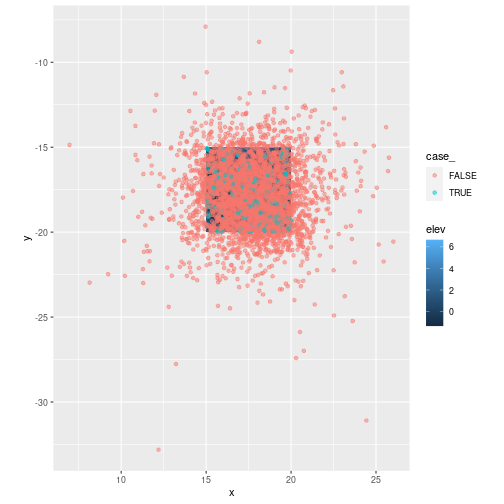
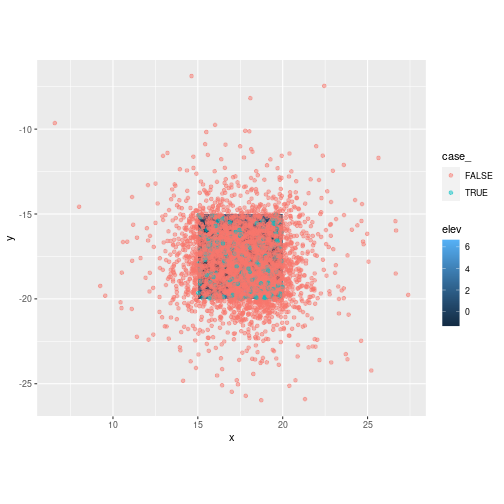
Made loading of rasters visible

diff --git a/index.html b/index.html
@@ -130,6 +130,10 @@ Let's simulate from this model...
 
 
 ```r
+# Load covariates
+elev &lt;- aggregate(raster("data/res01_srtm0_40_16.tif"), fact = 10)
+slp &lt;- aggregate(raster("data/res01_slope_40_16.tif"), fact = 10)
+
 # Coefficients for the IPP model
 # Our species likes heights a bit,
 # but doesn't like slopes
@@ -185,10 +189,10 @@ head(obs_loc, 4)
 
 ```
 ##          x         y
-## 1 18.79979 -17.18135
-## 2 19.06822 -17.02406
-## 3 19.31434 -18.36496
-## 4 15.57993 -18.90364
+## 1 16.48858 -17.90615
+## 2 18.26022 -19.66091
+## 3 16.86396 -17.35934
+## 4 17.42667 -18.83608
 ```
 
 ]
@@ -470,6 +474,8 @@ Now we also need to estimate the movement parameters: `\(k, \theta, \kappa, \mu\
 
 
 ```r
+library(amt)
+
 # Prepare data ------------------------------------------------------------
 
 # Read in simulations
@@ -600,11 +606,11 @@ head(step_rdm, 3)
 
 ```
 ## # A tibble: 3 × 12
-##   burst_   x1_   x2_   y1_   y2_    sl_   ta_ t1_                
-## *  &lt;dbl&gt; &lt;dbl&gt; &lt;dbl&gt; &lt;dbl&gt; &lt;dbl&gt;  &lt;dbl&gt; &lt;dbl&gt; &lt;dttm&gt;             
-## 1      3  17.2  16.2 -16.7 -16.6 0.998  NA    2022-08-31 20:03:30
-## 2      3  17.2  16.8 -16.7 -17.9 1.32    1.34 2022-08-31 20:03:30
-## 3      3  17.2  17.2 -16.7 -16.7 0.0221 -1.54 2022-08-31 20:03:30
+##   burst_   x1_   x2_   y1_   y2_   sl_    ta_ t1_                
+## *  &lt;dbl&gt; &lt;dbl&gt; &lt;dbl&gt; &lt;dbl&gt; &lt;dbl&gt; &lt;dbl&gt;  &lt;dbl&gt; &lt;dttm&gt;             
+## 1      3  17.2  16.2 -16.7 -16.6 0.998 NA     2022-08-31 20:03:30
+## 2      3  17.2  17.0 -16.7 -16.8 0.170  0.835 2022-08-31 20:03:30
+## 3      3  17.2  17.2 -16.7 -16.4 0.266 -1.56  2022-08-31 20:03:30
 ## # … with 4 more variables: t2_ &lt;dttm&gt;, dt_ &lt;drtn&gt;, step_id_ &lt;int&gt;, case_ &lt;lgl&gt;
 ## # ℹ Use `colnames()` to see all variable names
 ```
@@ -694,25 +700,25 @@ summary(ssm1)
 
 ```
 ## Call:
-## coxph(formula = Surv(rep(1, 2743L), case_) ~ elev + slp + strata(step_id_), 
+## coxph(formula = Surv(rep(1, 2720L), case_) ~ elev + slp + strata(step_id_), 
 ##     data = data, method = "exact")
 ## 
-##   n= 2743, number of events= 350 
+##   n= 2720, number of events= 350 
 ## 
-##         coef exp(coef) se(coef)      z Pr(&gt;|z|)    
-## elev  0.5140    1.6719   0.0847  6.068  1.3e-09 ***
-## slp  -1.7489    0.1740   0.2052 -8.521  &lt; 2e-16 ***
+##          coef exp(coef) se(coef)      z Pr(&gt;|z|)    
+## elev  0.54620   1.72667  0.08359  6.534  6.4e-11 ***
+## slp  -1.79925   0.16542  0.20526 -8.766  &lt; 2e-16 ***
 ## ---
 ## Signif. codes:  0 '***' 0.001 '**' 0.01 '*' 0.05 '.' 0.1 ' ' 1
 ## 
 ##      exp(coef) exp(-coef) lower .95 upper .95
-## elev     1.672     0.5981    1.4162    1.9738
-## slp      0.174     5.7482    0.1164    0.2601
+## elev    1.7267     0.5791    1.4657    2.0341
+## slp     0.1654     6.0451    0.1106    0.2474
 ## 
-## Concordance= 0.666  (se = 0.019 )
-## Likelihood ratio test= 118.9  on 2 df,   p=&lt;2e-16
-## Wald test            = 81.72  on 2 df,   p=&lt;2e-16
-## Score (logrank) test = 59.08  on 2 df,   p=1e-13
+## Concordance= 0.65  (se = 0.019 )
+## Likelihood ratio test= 128.5  on 2 df,   p=&lt;2e-16
+## Wald test            = 88.06  on 2 df,   p=&lt;2e-16
+## Score (logrank) test = 68.86  on 2 df,   p=1e-15
 ```
 
 ---
@@ -727,30 +733,30 @@ summary(ssm2)
 
 ```
 ## Call:
-## coxph(formula = Surv(rep(1, 2743L), case_) ~ elev + slp + log_sl + 
+## coxph(formula = Surv(rep(1, 2720L), case_) ~ elev + slp + log_sl + 
 ##     cos_ta + strata(step_id_), data = data, method = "exact")
 ## 
-##   n= 2675, number of events= 282 
+##   n= 2652, number of events= 282 
 ##    (68 observations deleted due to missingness)
 ## 
 ##            coef exp(coef) se(coef)      z Pr(&gt;|z|)    
-## elev    0.61248   1.84500  0.09608  6.375 1.83e-10 ***
-## slp    -1.95491   0.14158  0.23596 -8.285  &lt; 2e-16 ***
-## log_sl  0.38858   1.47489  0.06405  6.067 1.30e-09 ***
-## cos_ta -0.14499   0.86503  0.09730 -1.490    0.136    
+## elev    0.55775   1.74674  0.09395  5.937 2.91e-09 ***
+## slp    -1.85374   0.15665  0.22736 -8.153 3.54e-16 ***
+## log_sl  0.38377   1.46780  0.06530  5.877 4.18e-09 ***
+## cos_ta -0.22264   0.80040  0.09655 -2.306   0.0211 *  
 ## ---
 ## Signif. codes:  0 '***' 0.001 '**' 0.01 '*' 0.05 '.' 0.1 ' ' 1
 ## 
 ##        exp(coef) exp(-coef) lower .95 upper .95
-## elev      1.8450      0.542   1.52831    2.2273
-## slp       0.1416      7.063   0.08915    0.2248
-## log_sl    1.4749      0.678   1.30089    1.6722
-## cos_ta    0.8650      1.156   0.71484    1.0468
+## elev      1.7467     0.5725    1.4530    2.0999
+## slp       0.1567     6.3836    0.1003    0.2446
+## log_sl    1.4678     0.6813    1.2915    1.6682
+## cos_ta    0.8004     1.2494    0.6624    0.9671
 ## 
-## Concordance= 0.697  (se = 0.022 )
-## Likelihood ratio test= 145.8  on 4 df,   p=&lt;2e-16
-## Wald test            = 107  on 4 df,   p=&lt;2e-16
-## Score (logrank) test = 87.35  on 4 df,   p=&lt;2e-16
+## Concordance= 0.684  (se = 0.022 )
+## Likelihood ratio test= 144.1  on 4 df,   p=&lt;2e-16
+## Wald test            = 104.2  on 4 df,   p=&lt;2e-16
+## Score (logrank) test = 86.25  on 4 df,   p=&lt;2e-16
 ```
 
 ```r
@@ -758,11 +764,11 @@ AIC(ssm1);AIC(ssm2)
 ```
 
 ```
-## [1] 1302.982
+## [1] 1283.985
 ```
 
 ```
-## [1] 1006.763
+## [1] 998.523
 ```
 
 ---
@@ -775,11 +781,11 @@ AIC(ssm1);AIC(ssm2)
 ```
 
 ```
-## [1] 1302.982
+## [1] 1283.985
 ```
 
 ```
-## [1] 1006.763
+## [1] 998.523
 ```
 
 ---
